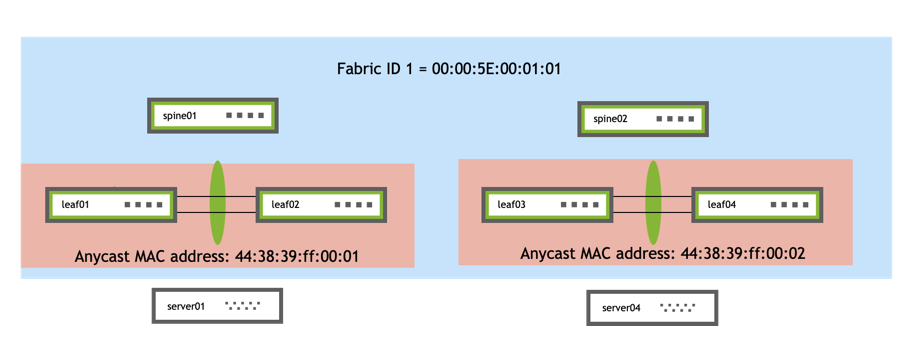
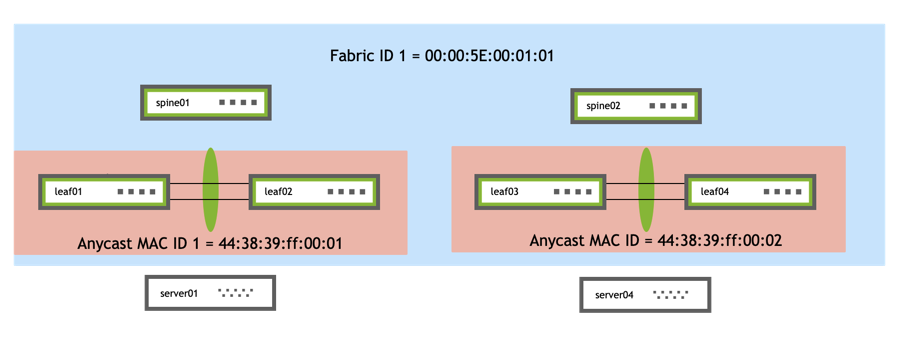
updates

diff --git a/content/cumulus-linux-51/Network-Virtualization/Ethernet-Virtual-Private-Network-EVPN/Inter-subnet-Routing.md b/content/cumulus-linux-51/Network-Virtualization/Ethernet-Virtual-Private-Network-EVPN/Inter-subnet-Routing.md
@@ -399,17 +399,17 @@ In EVPN symmetric routing configurations with VXLAN active-active ([MLAG](## "Mu
 
 To prevent sub-optimal routing, the switch handles the next hop IP address of the VTEP conditionally depending on the route type: host type-2 (MAC/IP advertisement) or type-5 (IP prefix route).
 
-- For host type-2 routes, the anycast IP address is the next hop IP address and the anycast MAC address is the router MAC address.
-- For type-5 routes, the system IP address (the primary IP address of the VTEP) is the next hop IP address and the system MAC address of the VTEP is the router MAC address.
+- For host type-2 routes, the anycast IP address is the next hop IP address and the anycast MAC address (system MAC address) is the router MAC address.
+- For type-5 routes, the system IP address (the primary IP address of the VTEP) is the next hop IP address and the anycast MAC address of the VTEP is the router MAC address.
 
 You set the anycast MAC address on both switches in the MLAG pair.
 
-NVUE provides two commands. You can either:
+NVUE provides two commands to set the anycast MAC address globally. You can either:
 
 - Set the anycast MAC address to a value in the reserved range between 44:38:39:ff:00:00 and 44:38:39:ff:ff:ff. Be sure to use an address in this reserved range to prevent MAC address conflicts with other interfaces in the same bridged network.
 - Set an anycast MAC ID, from which Cumulus Linux derives the MAC address. You can specify a number between 1 and 65535. Cumulus Linux adds the number to the MAC address 44:38:39:ff:00:00 in hex. For example, if you specify 225, the anycast MAC address is 44:38:39:ff:00:FF.
 
-If you use Linux commands to configure the switch instead of NVUE, add the `address-virtual <anycast-mac>` option under every VLAN interface in the` /etc/network/interfaces` file. Cumulus Linux does not provide a global anycast MAC address or ID option in the `/etc/network/interfaces` file.
+If you use Linux commands to configure the switch instead of NVUE, add the `address-virtual <anycast-mac>` option under every VLAN interface in the` /etc/network/interfaces` file. Cumulus Linux does not provide a global anycast MAC address or MAC ID option in the `/etc/network/interfaces` file.
 
 {{< tabs "TabID472 ">}}
 {{< tab "NVUE Commands ">}}
@@ -431,7 +431,7 @@ cumulus@leaf01:~$ nv config apply
 {{< /tab >}}
 {{< tab "Linux Commands ">}}
 
-Edit the `/etc/network/interfaces` file and add `address-virtual <anycast-mac>` under the SVI. For example:
+Edit the `/etc/network/interfaces` file and add `address-virtual <anycast-mac>` under each VLAN interface. For example:
 
 ```
 cumulus@leaf01:~$ sudo nano /etc/network/interfaces
